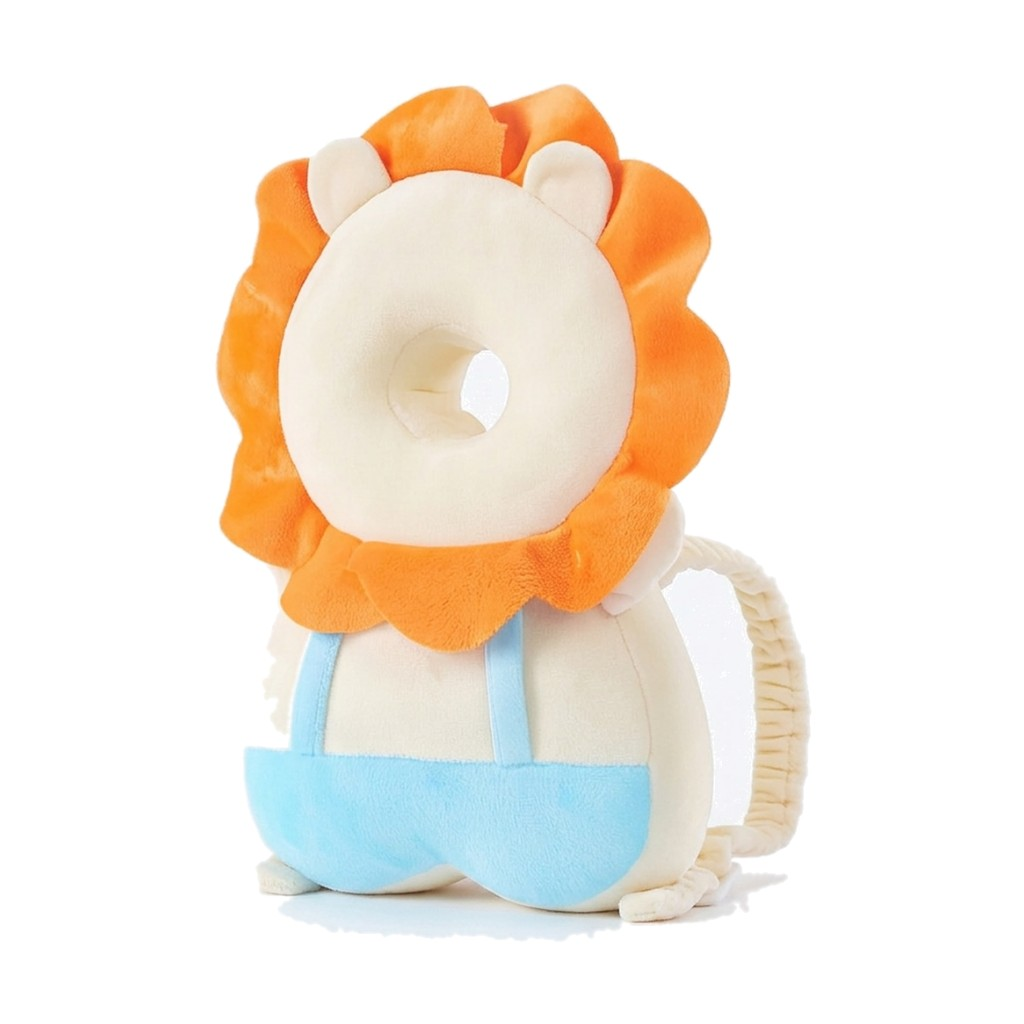
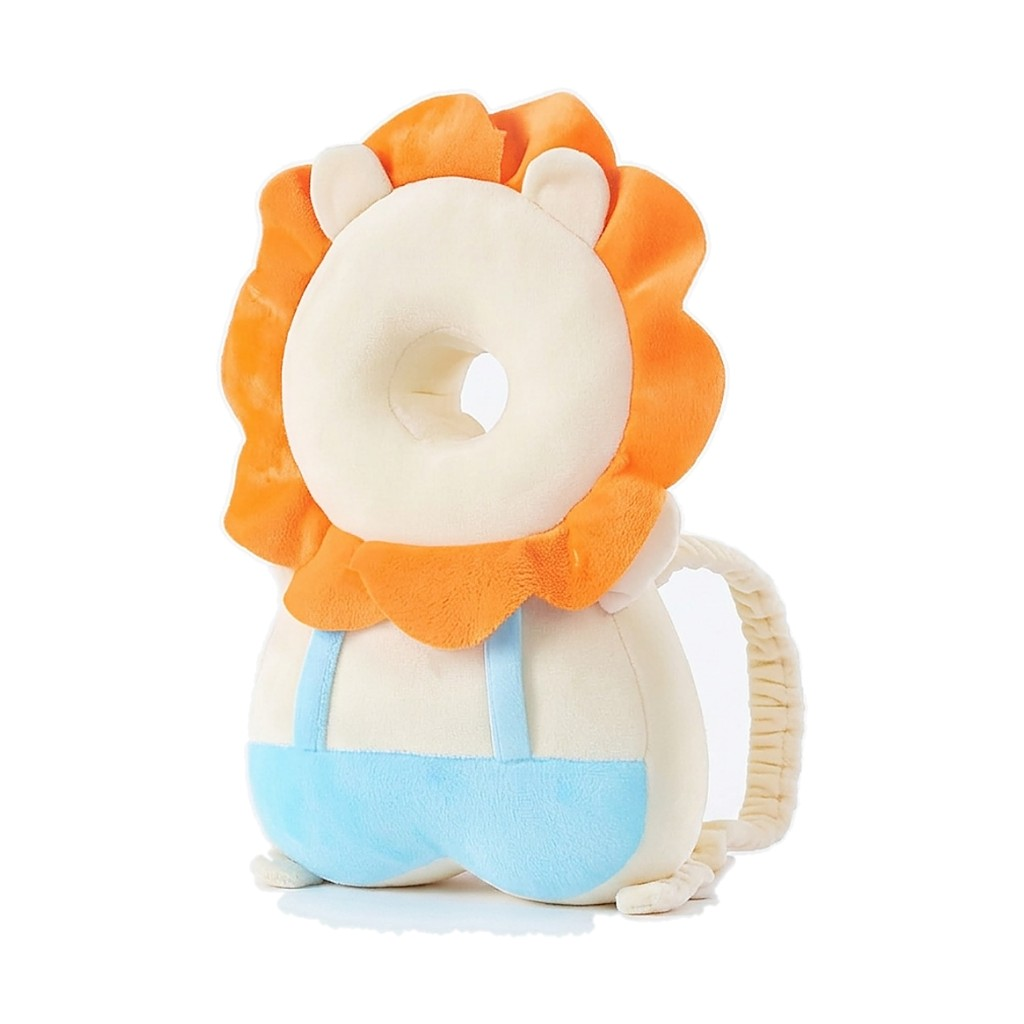
Protetor de cabeça: capa corrigida (corpo inteiro, nitidez) + kit: --size no Gemini e regras de limpeza de fundo
Claude-Session: https://claude.ai/code/session_018JC4h3PWNbnPoL4pPcjoDg

diff --git a/_kit/gerar_cena.py b/_kit/gerar_cena.py
@@ -6,7 +6,7 @@ A chave vem de GEMINI_API_KEY no ambiente ou do arquivo .env da pasta ZeloKids_G
 import argparse, os, io, json, base64, urllib.request, urllib.error, pathlib, sys
 ap = argparse.ArgumentParser()
 ap.add_argument("--prompt", required=True); ap.add_argument("--out", required=True)
-ap.add_argument("--ref"); ap.add_argument("--pad", type=float); ap.add_argument("--model", default="gemini-3.1-flash-image")
+ap.add_argument("--ref"); ap.add_argument("--pad", type=float); ap.add_argument("--model", default="gemini-3.1-flash-image"); ap.add_argument("--size", default=None, help="1K, 2K ou 4K (modelos pro)")
 a = ap.parse_args()
 key = os.environ.get("GEMINI_API_KEY")
 if not key:
@@ -23,7 +23,7 @@ if a.ref:
     buf = io.BytesIO(); im.save(buf, "PNG")
     parts.append({"inline_data":{"mime_type":"image/png","data":base64.b64encode(buf.getvalue()).decode()}})
 parts.append({"text": open(a.prompt, encoding="utf-8").read()})
-body = {"contents":[{"parts":parts}], "generationConfig":{"responseModalities":["IMAGE"],"imageConfig":{"aspectRatio":"1:1"}}}
+body = {"contents":[{"parts":parts}], "generationConfig":{"responseModalities":["IMAGE"],"imageConfig":{"aspectRatio":"1:1", **({"imageSize": a.size} if a.size else {})}}}
 req = urllib.request.Request(f"https://generativelanguage.googleapis.com/v1beta/models/{a.model}:generateContent",
       data=json.dumps(body).encode(), headers={"Content-Type":"application/json","x-goog-api-key":key})
 try: d = json.load(urllib.request.urlopen(req, timeout=170))

diff --git a/_kit/sistema-visual.md b/_kit/sistema-visual.md
@@ -67,3 +67,8 @@ Reprovar e refazer se: produto alterado; texto com erro; título fora do roxo; m
 
 ## Títulos
 - Cada linha do título cabe em ~930 px: até ~20 caracteres na linha forte (Capriola) e ~24 na leve. O renderizador reduz a fonte se passar, mas acima disso o título fica pequeno — reescreva em vez de depender da redução.
+
+## Limpeza de fundo (aprendido no protetor de cabeça, 19/10/2026)
+- Nunca clarear por limiar global ("tudo acima de X vira branco"): produtos creme/bege/branco perdem pedaços. Separar o fundo pela cor dele (neutro, pouco saturado) ligado às bordas, manter só as regiões grandes do produto e suavizar 1 px.
+- Depois do recorte, aplicar máscara de nitidez leve (UnsharpMask raio 1,5 / 65%): o Gemini flash entrega a foto um pouco macia.
+- Para mais qualidade na capa/close: `gerar_cena.py --model gemini-3.1-pro-image --size 2K` (custa mais; usar só na capa e no close de detalhe) ou partir da foto de estúdio da loja quando ela já for nítida.
